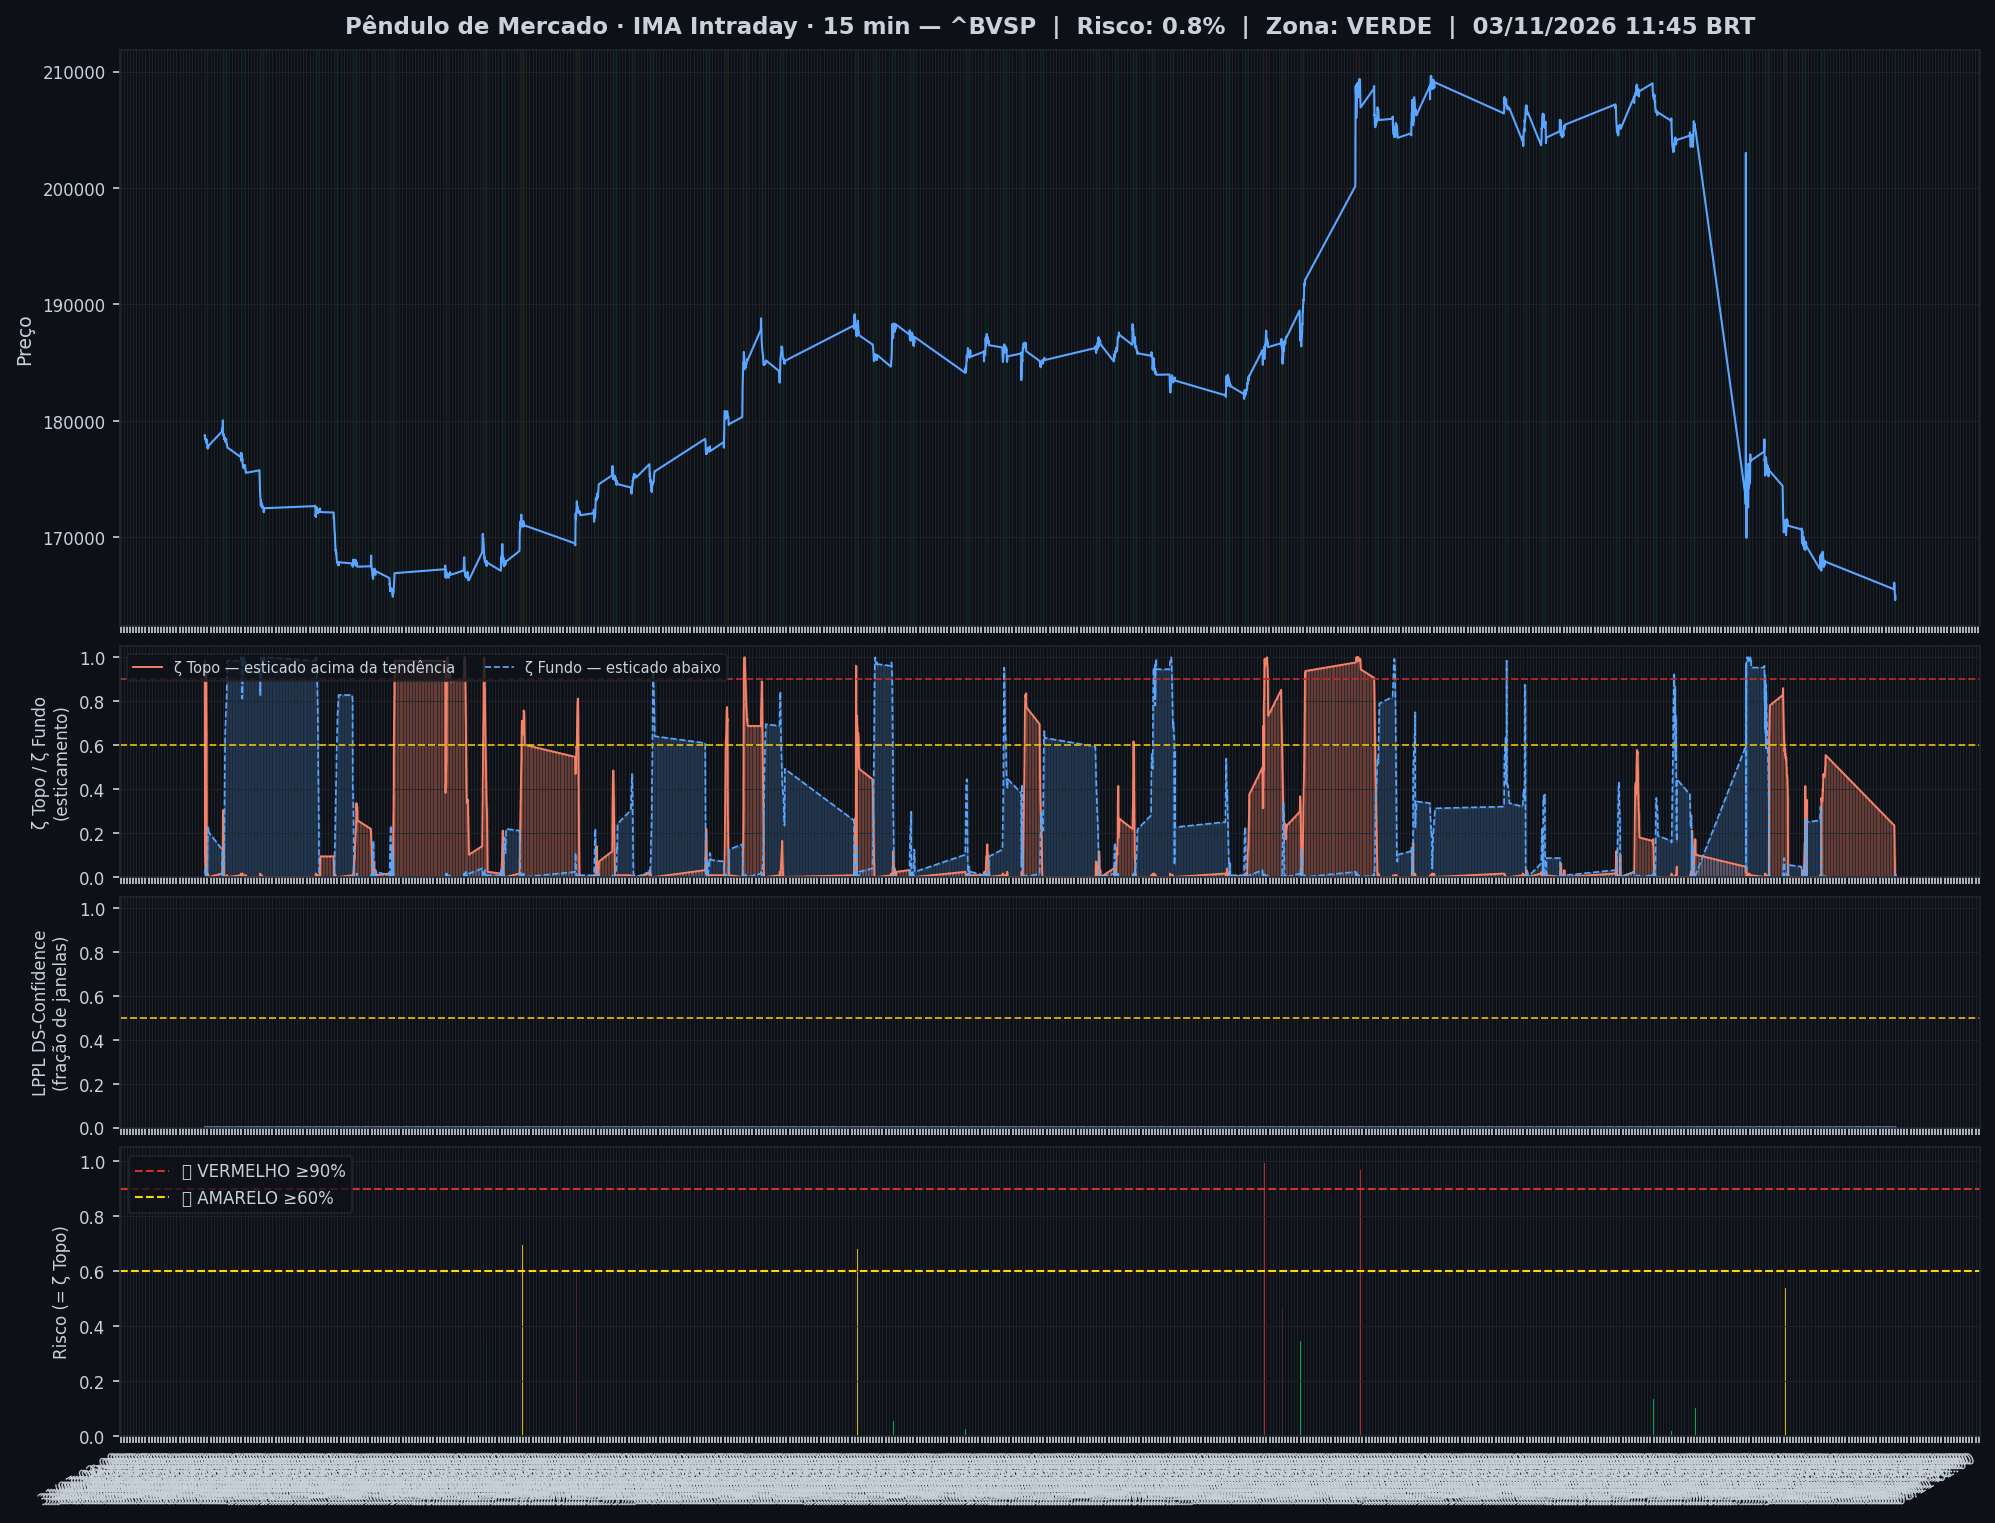
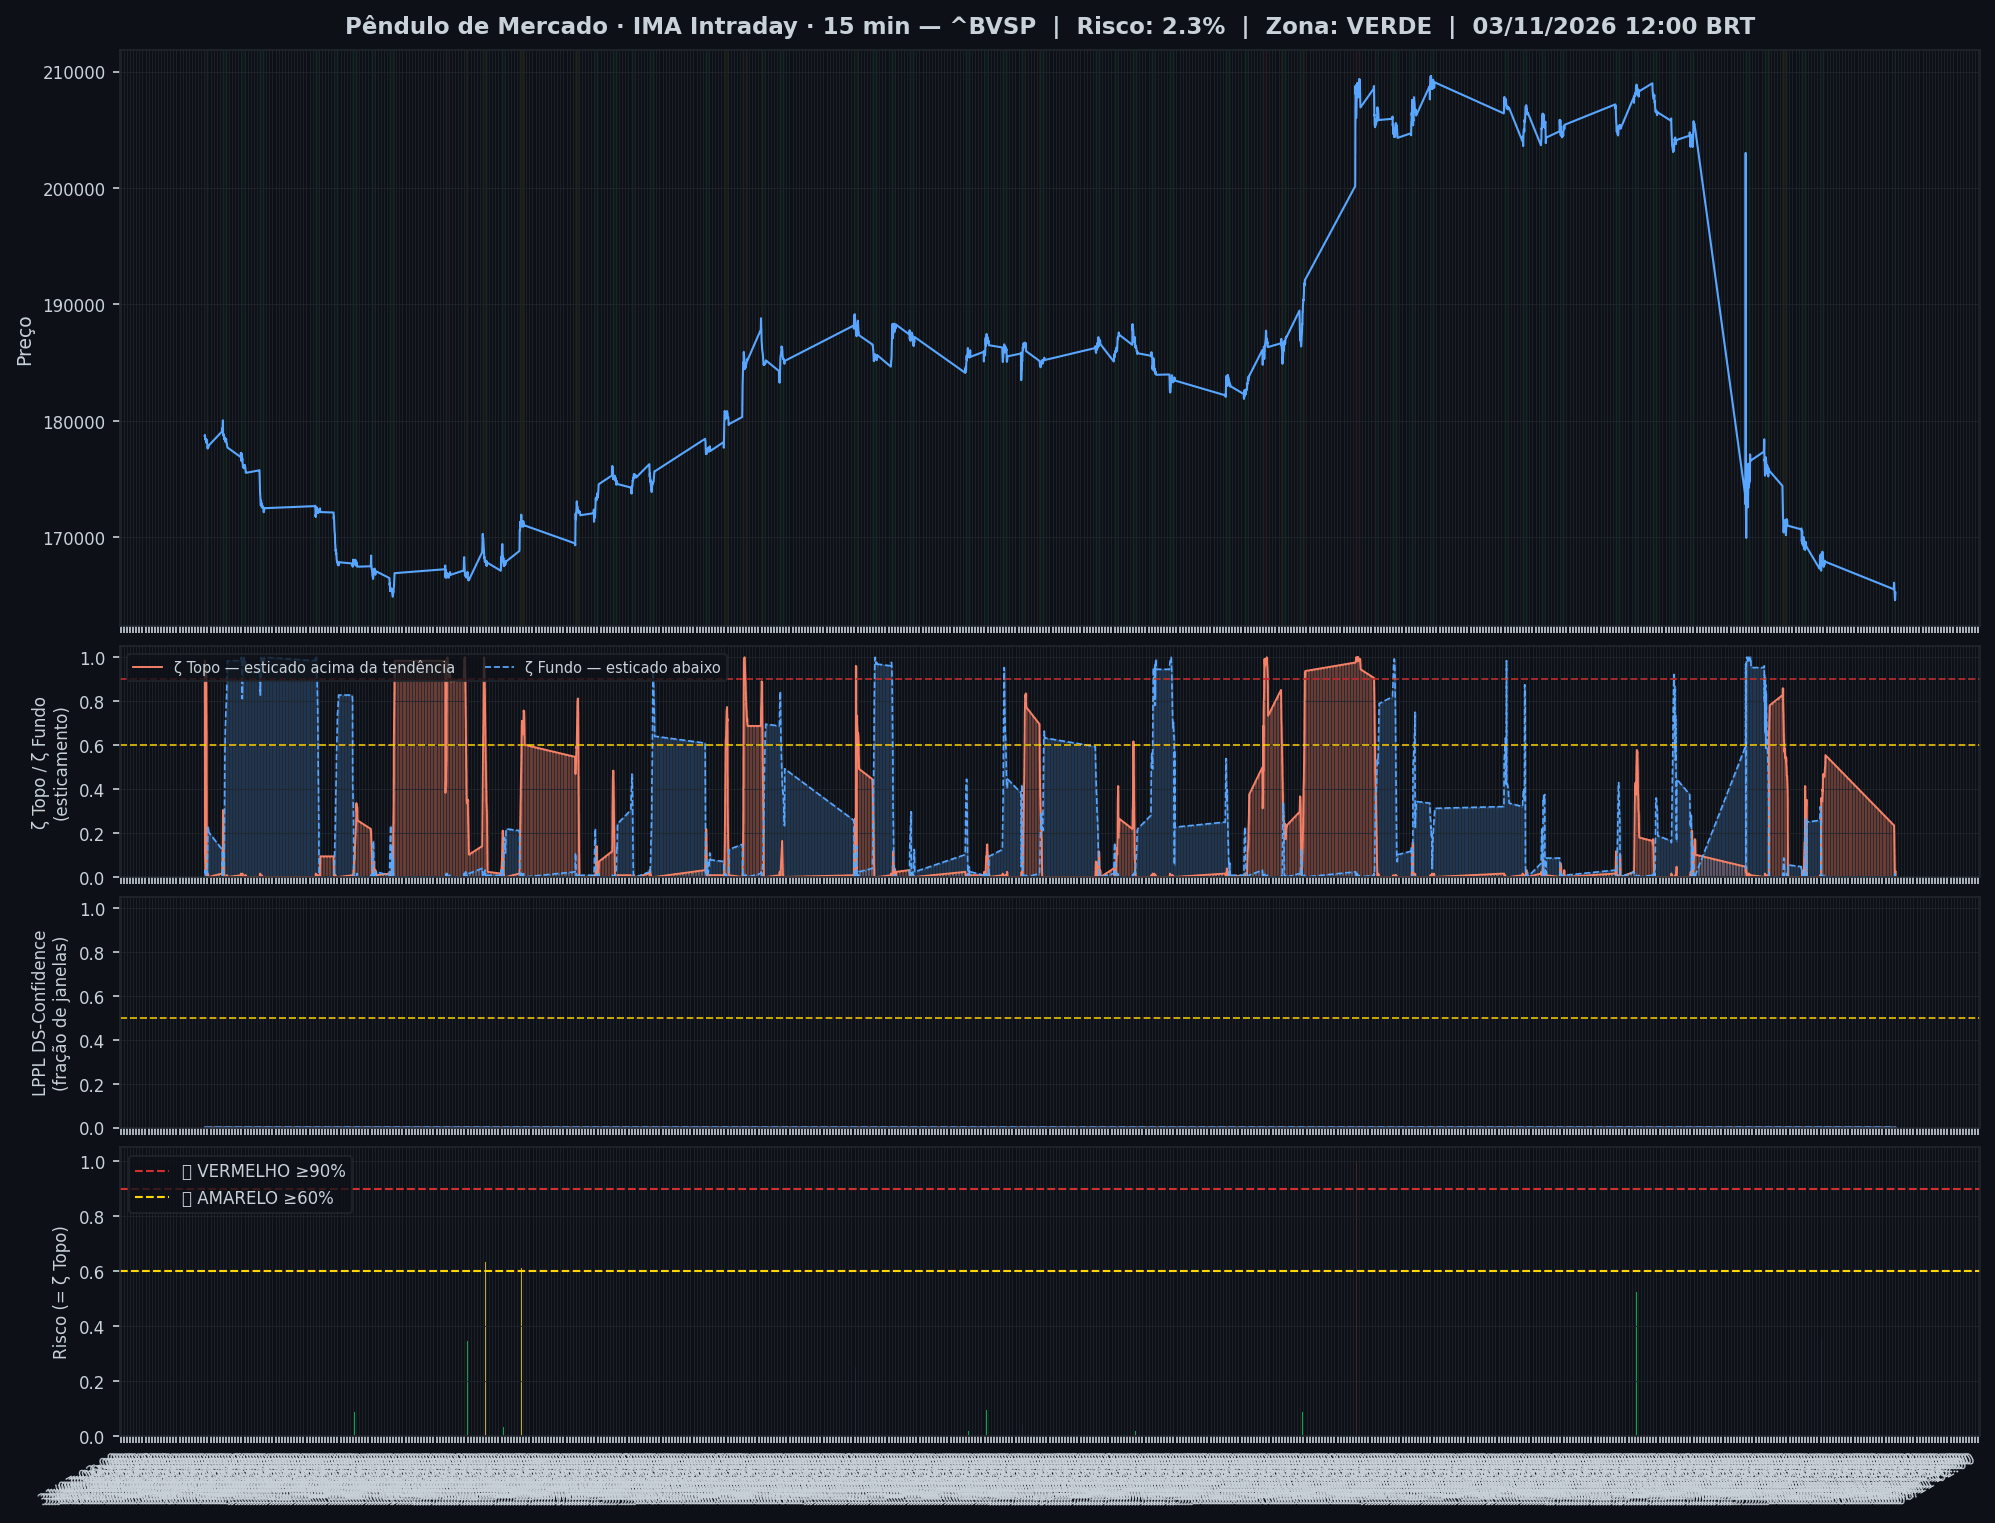
🤖 Auto: Sinal 03/11/2026 12:15

Changed region(s): [[0.808, 0.432, 0.9323, 0.5863], [0.6837, 0.4629, 0.7148, 0.5863]]

diff --git a/content/intraday/2026-11-03.md b/content/intraday/2026-11-03.md
@@ -1,10 +1,10 @@
 ---
-title: "🟢 Intraday 03/11/2026 11:45 BRT — VERDE"
+title: "🟢 Intraday 03/11/2026 12:00 BRT — VERDE"
 date: 2026-11-03
 tags: [intraday]
 ---
 
-> [!success] Onde o mercado está agora (03/11 11:45, candles de 15 min): **🟢 Calmo**
+> [!success] Onde o mercado está agora (03/11 12:00, candles de 15 min): **🟢 Calmo**
 > `Pânico ◀──────────●──────────▶ Euforia`
 >
 > O Ibovespa está dentro da sua faixa normal, sem excesso para cima nem para baixo.
@@ -20,7 +20,7 @@ tags: [intraday]
 > | 📍 **Sinais** | hoje: 2 sinal(is), 1 forte(s) | [abrir](sinais-topo-fundo/) |
 > | 🧪 **Placar ao vivo** | 1 operação(ões), 0 com lucro, soma -0,8% | [abrir](operacoes/) |
 
-> [!success] IMA Intraday · 15 min (03/11 11:45): 🟢 **VERDE** — Risco 1% · ▲ +1 p.p. vs leitura anterior
+> [!success] IMA Intraday · 15 min (03/11 12:00): 🟢 **VERDE** — Risco 2% · ▲ +2 p.p. vs leitura anterior
 > `░░░░░░░░░░░░░░░░░░░░`
 > Preço na faixa normal em torno da tendência.
 
@@ -32,13 +32,13 @@ tags: [intraday]
 >
 > *Leitura educacional baseada em 26 anos de dados, não recomendação. [Como usar](../metodologia/crise#3-como-usar-na-prática).*
 
-| Indicador — IMA Intraday · 15 min (03/11 11:45) | Valor |
+| Indicador — IMA Intraday · 15 min (03/11 12:00) | Valor |
 |---|---|
-| 🔴 ζ Topo — preço esticado acima da tendência | **1%** |
-| 🔵 ζ Fundo — preço esticado abaixo da tendência | 0% |
+| 🔴 ζ Topo — preço esticado acima da tendência | **2%** |
+| 🔵 ζ Fundo — preço esticado abaixo da tendência | 1% |
 | 🫧 LPPL bolha — alta super-exponencial (risco de crash) | 0% |
 | 🫧 LPPL antibolha — queda super-exponencial (risco de repique) | 0% |
-| 📊 Ibovespa | 165.006 pts |
+| 📊 Ibovespa | 165.260 pts |
 
 ![Gráfico do sinal](../graficos/sinal_intraday.png)
 
@@ -46,6 +46,7 @@ tags: [intraday]
 
 | Data | Zona | Evento | Risco | ζ Topo | ζ Fundo | LPPL |
 |---|---|---|---|---|---|---|
+| 2026-11-03 12:00 | 🟢 VERDE |  | **2%** | 2% | 1% | 0% |
 | 2026-11-03 11:45 | 🟢 VERDE |  | **1%** | 1% | 0% | 0% |
 | 2026-11-03 11:30 | 🟢 VERDE |  | **0%** | 0% | 0% | 0% |
 | 2026-11-03 11:15 | 🟢 VERDE |  | **0%** | 0% | 1% | 0% |
@@ -75,7 +76,6 @@ tags: [intraday]
 | 2026-10-30 12:45 | 🟢 VERDE |  | **34%** | 34% | 2% | 0% |
 | 2026-10-30 12:30 | 🟢 VERDE |  | **34%** | 34% | 1% | 0% |
 | 2026-10-30 12:15 | 🟢 VERDE |  | **35%** | 35% | 0% | 0% |
-| 2026-10-30 12:00 | 🟢 VERDE |  | **35%** | 35% | 0% | 0% |
 
 <small>Destaques: 🟡 ≥ 60% · 🔴 ≥ 90% (Risco e ζ Topo) · 🔵 ≥ 60% · 🔪 ≥ 90% (ζ Fundo) · 🫧 ≥ 30% · 🫧🔴 ≥ 50% (LPPL)</small>
 
@@ -85,38 +85,38 @@ tags: [intraday]
 
 | Zona | Ativo | Setor | ζ Topo | ζ Fundo |
 |---|---|---|---|---|
-| 🟢 | **EMBRAER** | Outros | 53.1% | 0.8% |
-| 🟢 | **REDE D OR** | Saúde | 52.3% | 0.0% |
-| 🟢 | **ITAUSA** | Financeiro | 47.7% | 0.0% |
-| 🟢 | **ENEVA** | Energia | 42.2% | 0.0% |
-| 🟢 | **VALE** | Mineração | 0.8% | 39.8% |
-| 🟢 | **PETROBRAS** | Petróleo | 0.0% | 37.5% |
+| 🟢 | **EMBRAER** | Outros | 56.2% | 1.6% |
+| 🟢 | **REDE D OR** | Saúde | 50.8% | 0.0% |
+| 🟢 | **VALE** | Mineração | 0.8% | 49.2% |
+| 🟢 | **ITAUSA** | Financeiro | 43.8% | 0.0% |
+| 🟢 | **ENEVA** | Energia | 39.1% | 0.8% |
+| 🟢 | **PETROBRAS** | Petróleo | 0.8% | 35.9% |
 | 🟢 | **B3** | Financeiro | 33.6% | 0.0% |
-| 🟢 | **PETROBRAS** | Petróleo | 0.0% | 32.8% |
-| 🟢 | **EQUATORIAL** | Energia | 29.7% | 0.0% |
-| 🟢 | **LOCALIZA** | Aluguel | 28.9% | 0.0% |
-| 🟢 | **PRIO** | Petróleo | 18.0% | 25.8% |
-| 🟢 | **SUZANO S.A.** | Papel/Celulose | 25.0% | 1.6% |
-| 🟢 | **GERDAU** | Siderurgia | 20.3% | 0.8% |
-| 🟢 | **BBSEGURIDADE** | Financeiro | 0.8% | 17.2% |
-| 🟢 | **WEG** | Industrial | 0.8% | 14.8% |
-| 🟢 | **BRASIL** | Financeiro | 14.1% | 0.0% |
-| 🟢 | **VIBRA** | Energia | 12.5% | 0.8% |
-| 🟢 | **USD/BRL** | Câmbio | 1.6% | 12.5% |
-| 🟢 | **ITAUUNIBANCO** | Financeiro | 6.2% | 0.0% |
-| 🟢 | **AXIA ENERGIA** | Energia | 6.2% | 0.0% |
-| 🟢 | **SABESP** | Saneamento | 5.5% | 0.0% |
-| 🟢 | **COPEL** | Energia | 0.0% | 4.7% |
+| 🟢 | **PETROBRAS** | Petróleo | 1.6% | 30.5% |
+| 🟢 | **EQUATORIAL** | Energia | 27.3% | 0.0% |
+| 🟢 | **LOCALIZA** | Aluguel | 27.3% | 0.8% |
+| 🟢 | **VIBRA** | Energia | 26.6% | 0.0% |
+| 🟢 | **PRIO** | Petróleo | 13.3% | 25.0% |
+| 🟢 | **GERDAU** | Siderurgia | 19.5% | 0.8% |
+| 🟢 | **SUZANO S.A.** | Papel/Celulose | 18.0% | 2.3% |
+| 🟢 | **BBSEGURIDADE** | Financeiro | 0.0% | 14.8% |
+| 🟢 | **USD/BRL** | Câmbio | 1.6% | 14.1% |
+| 🟢 | **BRASIL** | Financeiro | 11.7% | 0.8% |
+| 🟢 | **WEG** | Industrial | 0.8% | 9.4% |
+| 🟢 | **ITAUUNIBANCO** | Financeiro | 8.6% | 0.0% |
+| 🟢 | **AXIA ENERGIA** | Energia | 7.8% | 0.0% |
 | 🟢 | **BRADESCO** | Financeiro | 0.8% | 3.9% |
-| 🟢 | **ULTRAPAR** | Outros | 0.8% | 3.9% |
-| 🟢 | **BTGP BANCO** | Financeiro | 0.0% | 2.3% |
-| 🟢 | **AMBEV S/A** | Consumo | 2.3% | 2.3% |
+| 🟢 | **SABESP** | Saneamento | 3.1% | 0.8% |
+| 🟢 | **AMBEV S/A** | Consumo | 3.1% | 0.8% |
+| 🟢 | **ULTRAPAR** | Outros | 0.8% | 3.1% |
+| 🟢 | **COPEL** | Energia | 0.0% | 2.3% |
+| 🟢 | **BTGP BANCO** | Financeiro | 1.6% | 1.6% |
 
 <small>Destaques: 🟡 ≥ 60% · 🔴 ≥ 90% (Risco e ζ Topo) · 🔵 ≥ 60% · 🔪 ≥ 90% (ζ Fundo) · 🫧 ≥ 30% · 🫧🔴 ≥ 50% (LPPL)</small>
 
 ![Monitor multi-ativo](../graficos/multi_intraday.png)
 
-*Página atualizada em 03/11/2026 12:00 BRT (leitura da barra de 2026-11-03 11:45 BRT).*
+*Página atualizada em 03/11/2026 12:15 BRT (leitura da barra de 2026-11-03 12:00 BRT).*
 
 > [!warning] O que este indicador não faz
 > Medido em 5 anos de Ibovespa, o ζ **não antecipa** topos nem fundos: a capacidade de separar o que sobe do que cai ficou em 0,49–0,52, e 0,50 é moeda jogada ao ar. Ele descreve o estado de agora; não é aviso do que vem. As zonas verde/amarelo/vermelho continuam na página como descrição desse estado — **não as use como sinal de entrada ou saída**.

diff --git a/content/index.md b/content/index.md
@@ -6,9 +6,9 @@ tags: [home]
 
 **As ondas do mercado, explicadas.** Leitura do Ibovespa com estatística de 26 anos, baseada no trabalho de pesquisadores e traders reconhecidos e adaptada por Jarbas Daniel da Costa.
 
-*Última atualização: 03/11/2026 12:00 BRT · Intraday 15min*
+*Última atualização: 03/11/2026 12:15 BRT · Intraday 15min*
 
-> [!success] Onde o mercado está agora (03/11 11:45, candles de 15 min): **🟢 Calmo**
+> [!success] Onde o mercado está agora (03/11 12:00, candles de 15 min): **🟢 Calmo**
 > `Pânico ◀──────────●──────────▶ Euforia`
 >
 > O Ibovespa está dentro da sua faixa normal, sem excesso para cima nem para baixo.
@@ -20,7 +20,7 @@ tags: [home]
 
 | Módulo | Agora | |
 |---|---|---|
-| 🌊 **Sinal de Crise** | 🟢 VERDE · 🟢 calmo · ζ Topo 1% | [relatório](intraday/2026-11-03) |
+| 🌊 **Sinal de Crise** | 🟢 VERDE · 🟢 calmo · ζ Topo 2% | [relatório](intraday/2026-11-03) |
 | 📈 **Tendência MME9** | Diário — fora<br>Semanal ⚡ saiu hoje às 10:00 a 167.008 (confirma às 19h) | [abrir](operacoes/tendencia) |
 | 🎯 **Entradas do método** | ⏳ aguardando: Diário · Nadaraya, H4 · Semáforo N2, Diário · Semáforo N3 após ζ Fundo | [abrir](operacoes/entradas) |
 | 📍 **Sinais** | hoje: 2 sinal(is), 1 forte(s) | [abrir](sinais-topo-fundo/) |
@@ -61,18 +61,18 @@ tags: [home]
 > *Leitura educacional baseada em 26 anos de dados, não recomendação. [Como usar](metodologia/crise#3-como-usar-na-prática).*
 
 > [!info]- 🌊 Detalhes do Sinal de Crise (indicadores e últimos 7 pregões)
-> > [!success] IMA Intraday · 15 min (03/11 11:45): 🟢 **VERDE** — Risco 1% · ▲ +1 p.p. vs leitura anterior
+> > [!success] IMA Intraday · 15 min (03/11 12:00): 🟢 **VERDE** — Risco 2% · ▲ +2 p.p. vs leitura anterior
 > > `░░░░░░░░░░░░░░░░░░░░`
 > > Preço na faixa normal em torno da tendência.
 >
 >
-> | Indicador — IMA Intraday · 15 min (03/11 11:45) | Valor |
+> | Indicador — IMA Intraday · 15 min (03/11 12:00) | Valor |
 > |---|---|
-> | 🔴 ζ Topo — preço esticado acima da tendência | **1%** |
-> | 🔵 ζ Fundo — preço esticado abaixo da tendência | 0% |
+> | 🔴 ζ Topo — preço esticado acima da tendência | **2%** |
+> | 🔵 ζ Fundo — preço esticado abaixo da tendência | 1% |
 > | 🫧 LPPL bolha — alta super-exponencial (risco de crash) | 0% |
 > | 🫧 LPPL antibolha — queda super-exponencial (risco de repique) | 0% |
-> | 📊 Ibovespa | 165.006 pts |
+> | 📊 Ibovespa | 165.260 pts |
 >
 > **Multi-ativo:** 0% em tensão (0🔴 0🟡 de 26 ativos)
 >
@@ -80,7 +80,7 @@ tags: [home]
 >
 > | Data | Zona | Risco | ζ Topo | ζ Fundo | LPPL |
 > |---|---|---|---|---|---|
-> | [03/11/2026](intraday/2026-11-03) | 🟢 VERDE | **1%** | 1% | 0% | 0% |
+> | [03/11/2026](intraday/2026-11-03) | 🟢 VERDE | **2%** | 2% | 1% | 0% |
 > | [30/10/2026](intraday/2026-10-30) | 🟢 VERDE | **55%** | 55% | 0% | 0% |
 >
 > <small>Destaques: 🟡 ≥ 60% · 🔴 ≥ 90% (Risco e ζ Topo) · 🔵 ≥ 60% · 🔪 ≥ 90% (ζ Fundo) · 🫧 ≥ 30% · 🫧🔴 ≥ 50% (LPPL)</small>

diff --git a/content/historico.md b/content/historico.md
@@ -5,7 +5,7 @@ tags: [historico]
 
 # 📜 Histórico de leituras (v5)
 
-**2.083 leituras** desde 2026-07-03. Na página ficam os últimos 3 dias leitura por leitura e o resumo de cada dia anterior; o registro inteiro está no arquivo para baixar.
+**2.084 leituras** desde 2026-07-03. Na página ficam os últimos 3 dias leitura por leitura e o resumo de cada dia anterior; o registro inteiro está no arquivo para baixar.
 
 [**Baixar o histórico completo**](historico-completo.csv) (91 KB · abre no Excel e no LibreOffice)
 
@@ -16,6 +16,7 @@ tags: [historico]
 
 | Data | Modo | Zona | Risco | IMA | LPPL |
 |---|---|---|---|---|---|
+| 2026-11-03 12:00 | intraday | 🟢 VERDE | 2% | 2% | 0% |
 | 2026-11-03 11:45 | intraday | 🟢 VERDE | 1% | 1% | 0% |
 | 2026-11-03 11:30 | intraday | 🟢 VERDE | 0% | 0% | 0% |
 | 2026-11-03 11:15 | intraday | 🟢 VERDE | 0% | 0% | 0% |

diff --git a/content/operacoes/ranking.md b/content/operacoes/ranking.md
@@ -5,7 +5,7 @@ tags: [operacoes]
 description: "As regras de compra do site ordenadas pelo resultado, com treino, teste e placar ao vivo"
 ---
 
-*Atualizado 03/11/2026 12:00 · histórico simulado com as regras congeladas em 23/10/2026 + placar ao vivo.*
+*Atualizado 03/11/2026 12:15 · histórico simulado com as regras congeladas em 23/10/2026 + placar ao vivo.*
 
 As regras de compra do site, **da que mais rendeu para a que menos rendeu**. O resultado é por operação, no índice à vista, sem custos e sem juros compostos (a soma é só a soma das operações). **Treino** = entradas de 2001 a 2013 e **teste** = 2014 em diante: uma regra só é confiável se ganhou nos dois. O único resultado sem nenhum ajuste ao histórico é o **placar ao vivo**.
 

diff --git a/content/linha-do-tempo/index.md b/content/linha-do-tempo/index.md
@@ -5,7 +5,7 @@ description: "Todo sinal, ordem, stop e aviso do Pêndulo de Mercado, do mais re
 tags: [eventos]
 ---
 
-*Atualizada 03/11/2026 12:00 BRT · a cada 15 min no pregão e às 19h.*
+*Atualizada 03/11/2026 12:15 BRT · a cada 15 min no pregão e às 19h.*
 
 Tudo o que o sistema fez ou detectou, **do mais recente para o mais antigo**: sinais de topo e fundo, ordens de compra e de venda armadas, compras, vendas, stops, avisos de 🚨 preço perto do nível e mudanças da Crise. Os **últimos 7 dias** ficam abertos; o resto, por **ano → mês → dia**.
 
